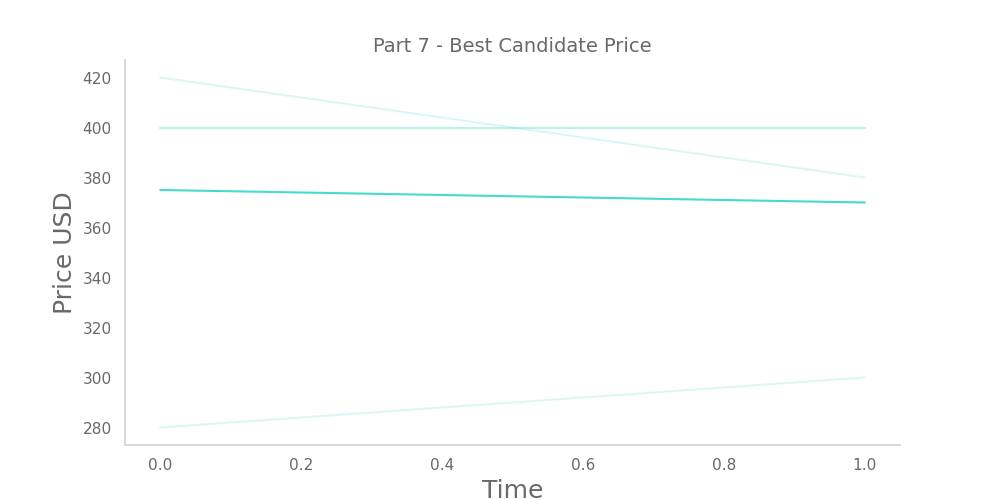
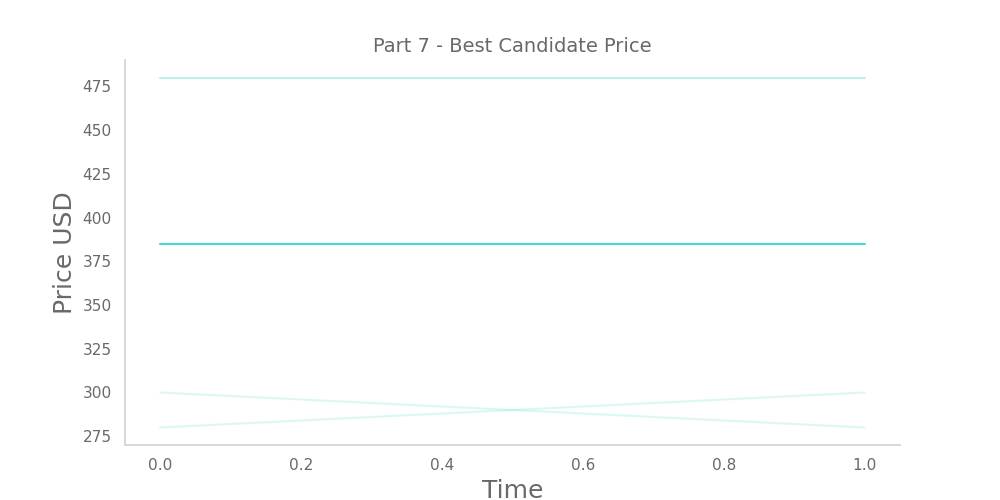
backup

diff --git a/project/my_part_7/FixedPriceBudgetAllocator.py b/project/my_part_7/FixedPriceBudgetAllocator.py
@@ -31,6 +31,7 @@ class FixedPriceBudgetAllocator(BudgetAllocator):
                           'collected_revenues': np.zeros(shape=(n_arms_pricing,))}
 
         self.best_prices = []
+        self.best_price_index = None
 
     def day_zero_initialization(self):
         """
@@ -76,13 +77,13 @@ class FixedPriceBudgetAllocator(BudgetAllocator):
         print(f'CURRENT CANDIDATE PRICE: {candidate_price}')
 
         # next price:
-        if self.n_updates % self.n_days_same_price == 0:
+        if self.n_updates % self.n_days_same_price == 0:  # and self.best_price_index is None:
             self.fixed_price += 1
             if self.fixed_price >= self.n_arms_pricing:
                 self.fixed_price = 0
                 # all prices have been tested, now we can compute the most promising price
-                best_price = self.cc_prices['candidate_prices'][
-                    int(np.argmax(np.asarray(self.cc_prices['collected_revenues'])))]
+                self.best_price_index = int(np.argmax(np.asarray(self.cc_prices['collected_revenues'])))
+                best_price = self.cc_prices['candidate_prices'][self.best_price_index]
                 print(f'BEST PRICE: {best_price}')
                 self.best_prices.append(best_price)
                 print(self.best_prices)
@@ -90,5 +91,7 @@ class FixedPriceBudgetAllocator(BudgetAllocator):
                 # we can reset or not the collected revenue for the interval
                 # self.cc_prices['collected_revenues'] = np.zeros(shape=(self.n_arms_pricing,))
                 # after testing: this doesn't affect the results
+        # elif self.best_price_index is not None:
+        #     self.fixed_price = self.best_price_index
 
         self.n_updates += 1

diff --git a/project/my_part_7/Testing_Env_7.py b/project/my_part_7/Testing_Env_7.py
@@ -144,7 +144,7 @@ def execute_experiment(args):
             subcampaign_handler.advertising.learner.plot(unknown_clicks_curve,
                                                          sigma_scale_factor=10,
                                                          chart_path=advertising_chart_root_path +
-                                                                    'subcamaign_' +
+                                                                    'subcampaign_' +
                                                                     str(idx))
 
     print('Total revenue:', int(fix_price_budget_allocator.msh.total_revenue),
@@ -162,4 +162,4 @@ def execute_experiment(args):
 
 
 if __name__ == '__main__':
-    test_part7(n_experiments=4, plot_advertising=False)
+    test_part7(n_experiments=4, plot_advertising=False, enable_pricing=True)
